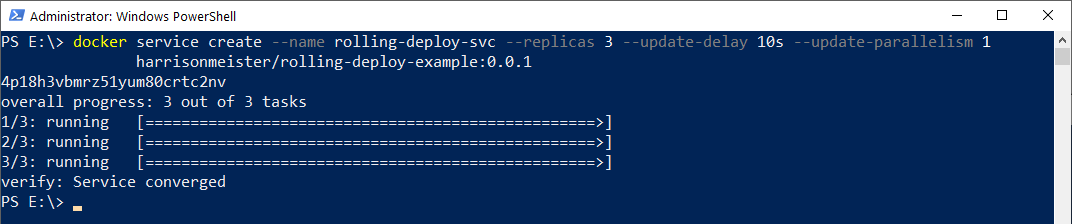
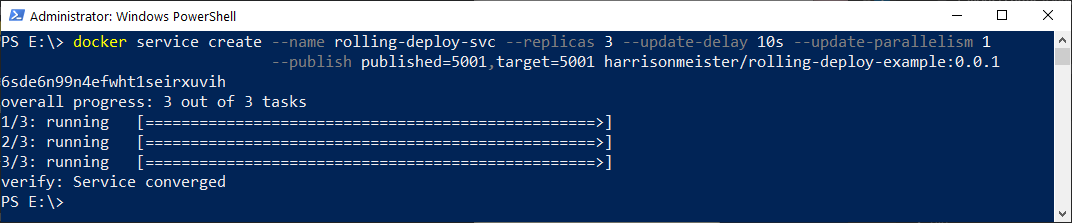
Updates to images

diff --git a/blog/2019-12/ultimate-guide-to-rolling-deployments/index.md b/blog/2019-12/ultimate-guide-to-rolling-deployments/index.md
@@ -111,6 +111,7 @@ To deploy more than one instance of our container, we have to create a Docker [s
 docker service create 
  --name rolling-deploy-svc 
  --replicas 3
+ --publish published=5001,target=5001
  --update-delay 10s
  --update-parallelism 1 
  harrisonmeister/rolling-deploy-example:0.0.1
@@ -120,9 +121,10 @@ When running the command for the first time, you may receive a warning of `This 
 :::
 
 Let's unpick what we are asking of Docker here:
-- The `--name` flag is pretty self explanatory. 
+- The `--name` is pretty self explanatory. 
 - The `--replicas` flag controls the number of containers we want (3).
-- The `--update-delay` configures the time delay (10s) between updates to a service task
+- The `--publish published=5001,target=5001` specifies we wish to access the service on 5001 using Swarm's [routing mesh](https://docs.docker.com/engine/swarm/ingress/#publish-a-port-for-a-service).
+- The `--update-delay` configures the time delay (10s) between updates to a service task.
 - The `--update-parallelism` controls the maximum number of service tasks that Docker will schedule simultaneously (1).
 - Lastly, we specify the image to use `harrisonmeister/rolling-deploy-example:0.0.1`
 
@@ -134,7 +136,7 @@ Executing this results in our service being deployed to Docker Swarm with 3 inst
 
 ![](docker-service-create.png "width=500")
 
-We can also check our service has our configuration by running the command:
+We can also check our service has the correct update configuration by running the command:
 
 ```
 docker service inspect rolling-deploy-svc --pretty
